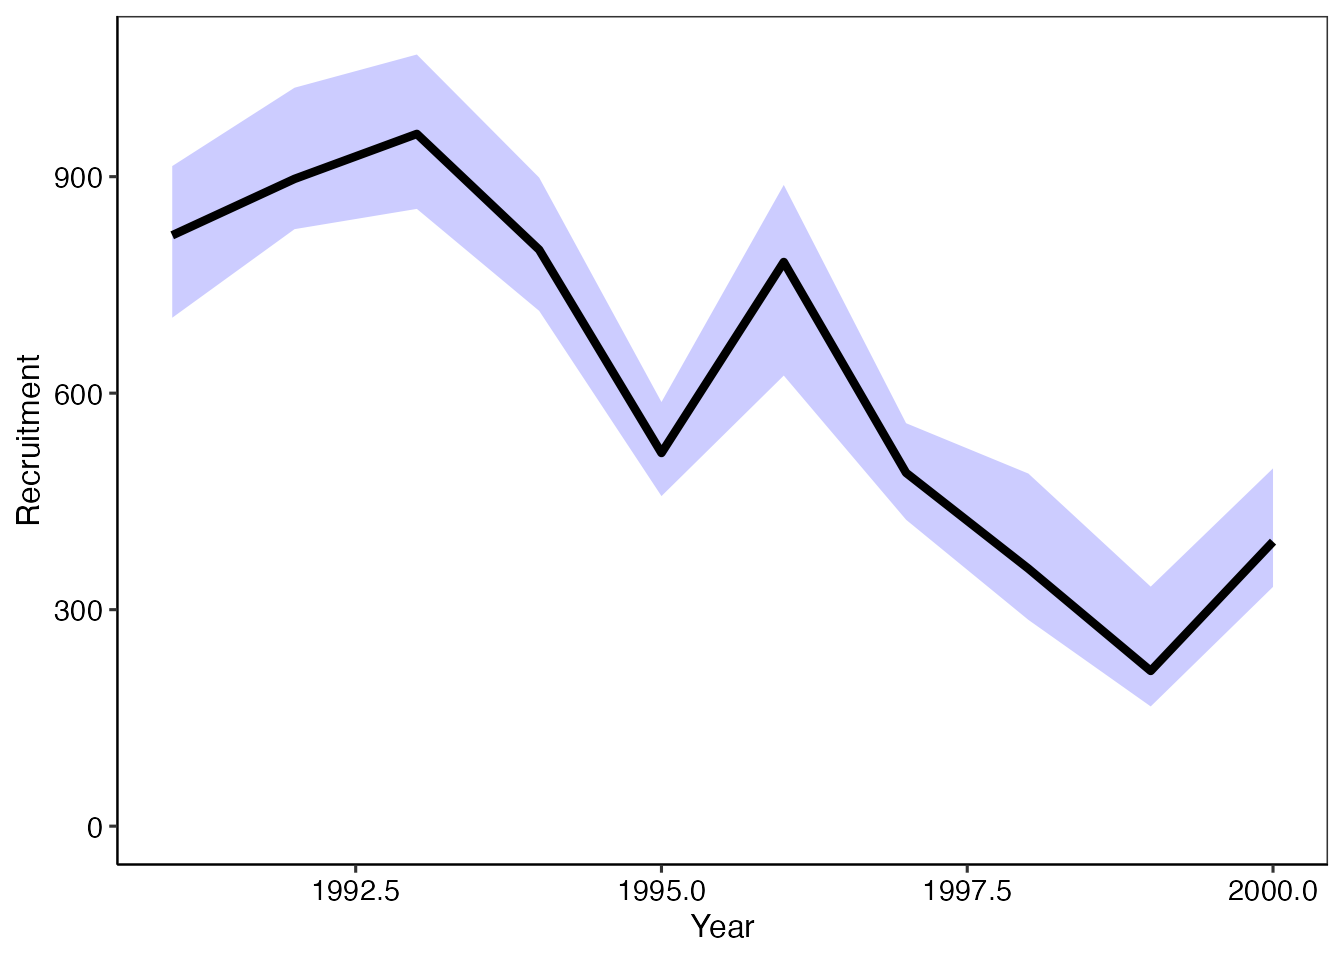
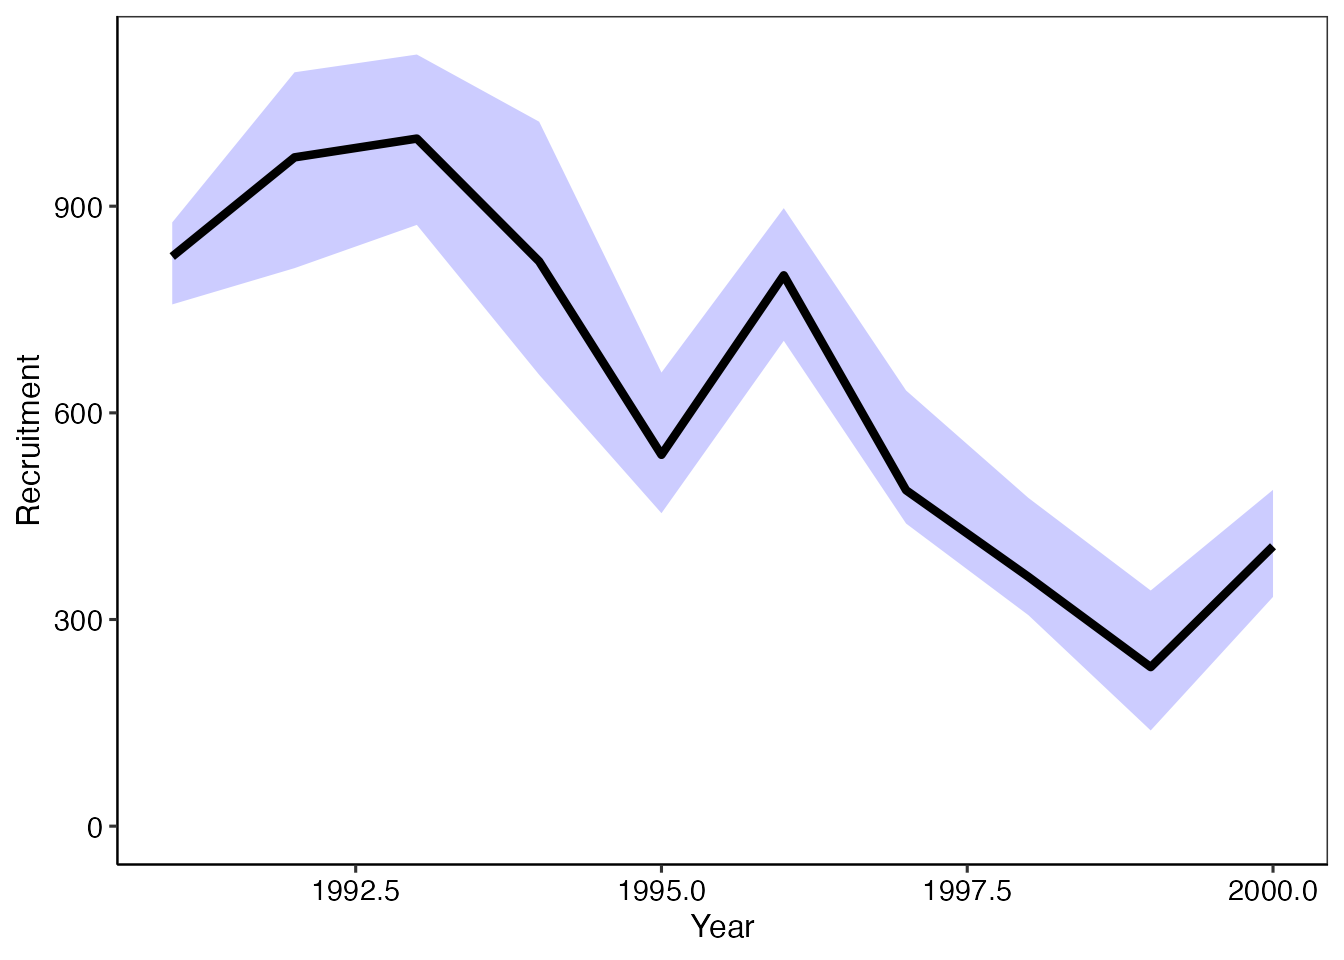
Built site for frasyr: 2.1.1.0@0da13c7

diff --git a/articles/Diagnostics-for-VPA.html b/articles/Diagnostics-for-VPA.html
@@ -72,7 +72,7 @@
       <h1 data-toc-skip>VPAモデル診断スクリプト</h1>
                         <h4 class="author">Kohei Hamabe &amp; Momoko Ichinokawa</h4>
             
-            <h4 class="date">2020-11-19</h4>
+            <h4 class="date">2020-11-20</h4>
       
       
       <div class="hidden name"><code>Diagnostics-for-VPA.Rmd</code></div>
@@ -430,7 +430,7 @@
 <p>を指定します。コマンドは以下の通りです。</p>
 <div class="sourceCode" id="cb25"><pre class="downlit sourceCode r">
 <code class="sourceCode R"><span class="va">res_vpa_jitter</span> <span class="op">&lt;-</span> <span class="fu"><a href="../reference/do_estcheck_vpa.html">do_estcheck_vpa</a></span><span class="op">(</span><span class="va">res_vpa_estb</span>, n_ite<span class="op">=</span><span class="fl">10</span><span class="op">)</span></code></pre></div>
-<pre><code>Maximum likelihood in jitter analysis is:  23.60018 
+<pre><code>Maximum likelihood in jitter analysis is:  23.36542 
 Likelihood with estimated parameters is:  23.60018 </code></pre>
 <p>最初に引数で与えたVPA結果について、</p>
 <ul>
@@ -564,8 +564,8 @@ Likelihood with estimated parameters is:  23.60018 </code></pre>
 <code class="sourceCode R"><span class="va">res_tmp</span> <span class="op">&lt;-</span> <span class="fu"><a href="https://rdrr.io/r/base/numeric.html">numeric</a></span><span class="op">(</span><span class="op">)</span>
 <span class="kw">for</span><span class="op">(</span><span class="va">i</span> <span class="kw">in</span> <span class="fl">1</span><span class="op">:</span><span class="fl">10</span><span class="op">)</span> <span class="va">res_tmp</span><span class="op">[</span><span class="va">i</span><span class="op">]</span> <span class="op">&lt;-</span> <span class="fu"><a href="https://rdrr.io/r/base/numeric.html">as.numeric</a></span><span class="op">(</span><span class="va">res_vpa_bootstrap</span><span class="op">$</span><span class="va">res_boot</span><span class="op">[[</span><span class="va">i</span><span class="op">]</span><span class="op">]</span><span class="op">$</span><span class="va">Fc.at.age</span><span class="op">[</span><span class="fl">4</span><span class="op">]</span><span class="op">)</span>
 <span class="fu"><a href="https://rdrr.io/r/stats/quantile.html">quantile</a></span><span class="op">(</span><span class="va">res_tmp</span>, probs <span class="op">=</span> <span class="fu"><a href="https://rdrr.io/r/base/c.html">c</a></span><span class="op">(</span><span class="fl">0.025</span>,<span class="fl">0.5</span>,<span class="fl">0.975</span><span class="op">)</span><span class="op">)</span></code></pre></div>
-<pre><code>     2.5%       50%     97.5% 
-0.5290051 0.9273963 7.6550550 </code></pre>
+<pre><code>    2.5%      50%    97.5% 
+0.470668 0.981430 7.211939 </code></pre>
 <p>この他、各パラメータの相関関係について、ブートストラップ標本を基にプロットが得られます。</p>
 <div class="sourceCode" id="cb41"><pre class="downlit sourceCode r">
 <code class="sourceCode R"><span class="va">res_vpa_bootstrap</span><span class="op">$</span><span class="va">plot_cor</span></code></pre></div>

diff --git a/articles/vpa.html b/articles/vpa.html
@@ -72,7 +72,7 @@
       <h1 data-toc-skip>VPA関数を使った資源量推定</h1>
                         <h4 class="author">市野川桃子</h4>
             
-            <h4 class="date">2020-11-19</h4>
+            <h4 class="date">2020-11-20</h4>
       
       
       <div class="hidden name"><code>vpa.Rmd</code></div>
